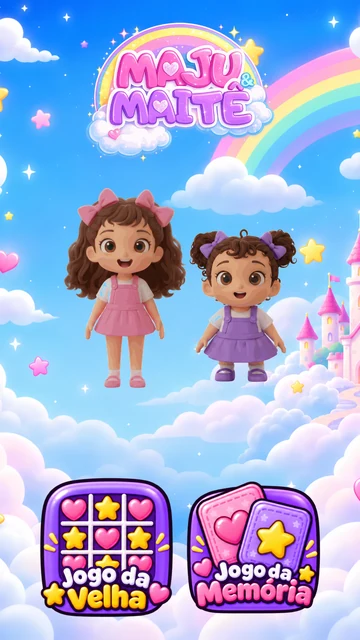
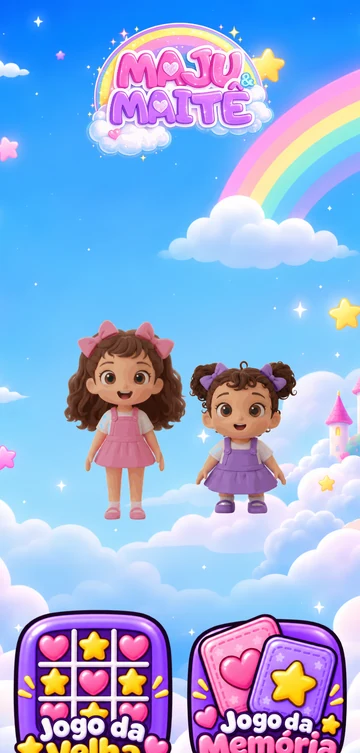
Página do jogo da velha: prints novos (botões e ícones maiores, tirados no emulador)

diff --git a/jogo-da-velha/index.html b/jogo-da-velha/index.html
@@ -198,19 +198,19 @@
     <h2>Veja o jogo</h2>
     <div class="prints">
       <figure>
-        <img src="assets/print_inicial.webp" width="360" height="640" loading="lazy" alt="Tela inicial do app, com a Maju e a Maitê e os cards para escolher o jogo da velha ou o jogo da memória">
+        <img src="assets/print_inicial.webp" width="360" height="753" loading="lazy" alt="Tela inicial do app, com a Maju e a Maitê e os cards para escolher o jogo da velha ou o jogo da memória">
         <figcaption>Tela inicial: escolha o jogo</figcaption>
       </figure>
       <figure>
-        <img src="assets/print_velha.webp" width="360" height="640" loading="lazy" alt="Jogo da velha em andamento, com corações e estrelas no tabuleiro">
+        <img src="assets/print_velha.webp" width="360" height="753" loading="lazy" alt="Jogo da velha em andamento, com corações e estrelas no tabuleiro">
         <figcaption>Jogo da velha, em dupla ou contra o computador</figcaption>
       </figure>
       <figure>
-        <img src="assets/print_memoria.webp" width="360" height="640" loading="lazy" alt="Jogo da memória com cartas de bichinhos viradas">
+        <img src="assets/print_memoria.webp" width="360" height="753" loading="lazy" alt="Jogo da memória com cartas de bichinhos viradas">
         <figcaption>Jogo da memória: ache os 8 pares</figcaption>
       </figure>
       <figure>
-        <img src="assets/print_pais.webp" width="360" height="640" loading="lazy" alt="Portal dos pais, com uma continha de soma e teclado de números">
+        <img src="assets/print_pais.webp" width="360" height="753" loading="lazy" alt="Portal dos pais, com uma continha de soma e teclado de números">
         <figcaption>Portal dos pais: uma continha antes de sair do app</figcaption>
       </figure>
     </div>
